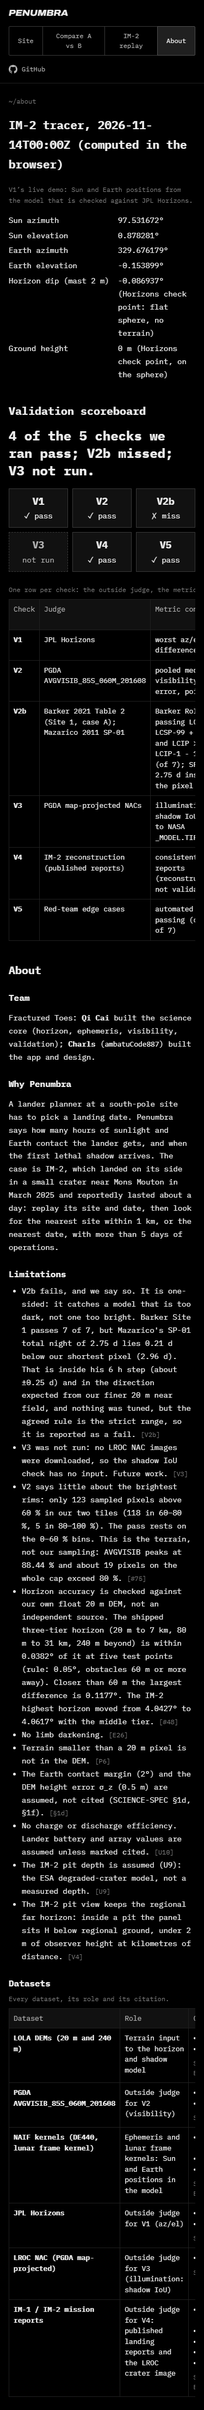
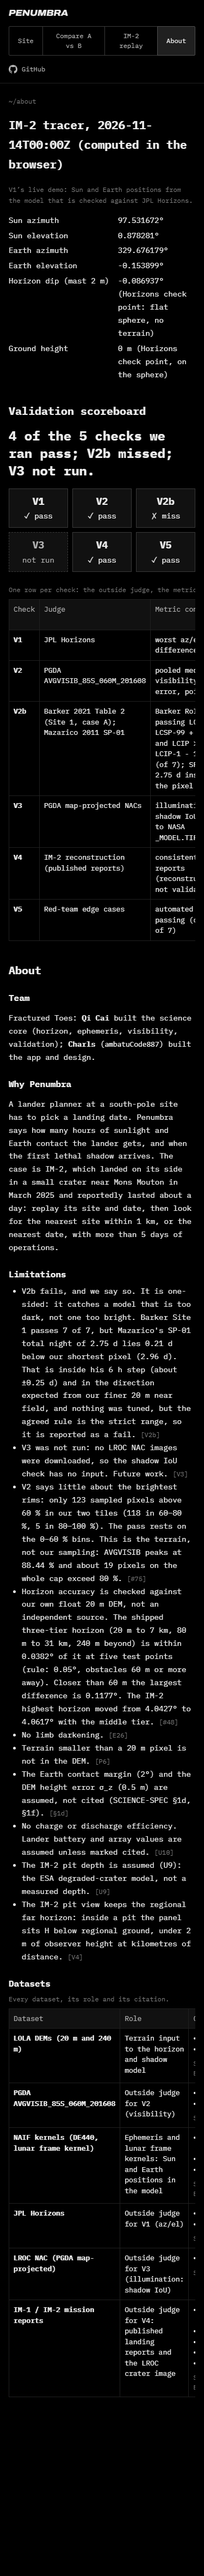
C3-6: impeccable audit fix, 44 px rows for About source links on touch (#84)

diff --git a/web/src/lib/About.svelte b/web/src/lib/About.svelte
@@ -82,6 +82,8 @@
   th, td { border: 1px solid var(--color-iron); padding: var(--spacing-8); text-align: left; vertical-align: top; }
   thead th { color: var(--color-fog); font-weight: var(--font-weight-regular); background: var(--surface-carbon); }
   .sources { padding-left: var(--spacing-16); }
+  /* Touch: stacked source links sit 3 px apart, so their 24 px circles overlap (WCAG 2.5.8); give each a 44 px row like the buttons. */
+  @media (pointer: coarse) { .sources a { display: inline-flex; align-items: center; min-height: 44px; } }
   li > .ids { display: inline; color: var(--color-ash); font-size: var(--text-caption); }
   td .ids { display: block; margin-top: var(--spacing-8); color: var(--color-ash); font-size: var(--text-caption); }
   .sr-only { position: absolute; width: 1px; height: 1px; overflow: hidden; clip-path: inset(50%); white-space: nowrap; }
